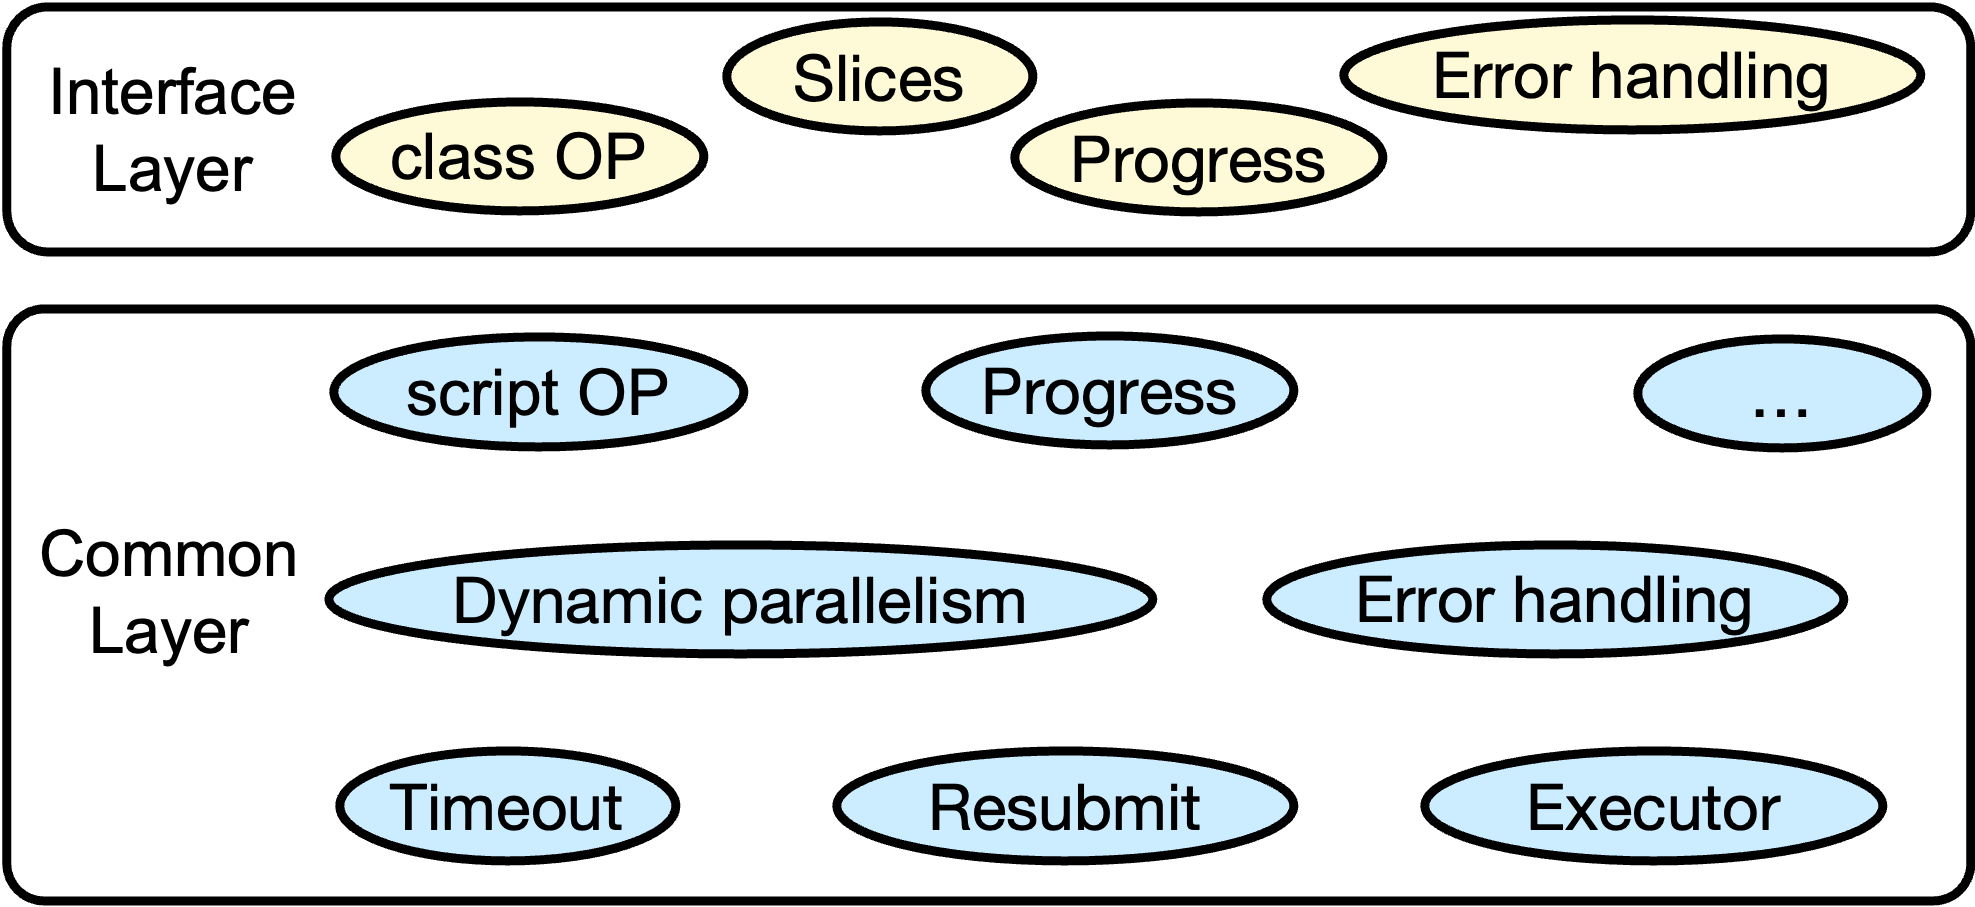
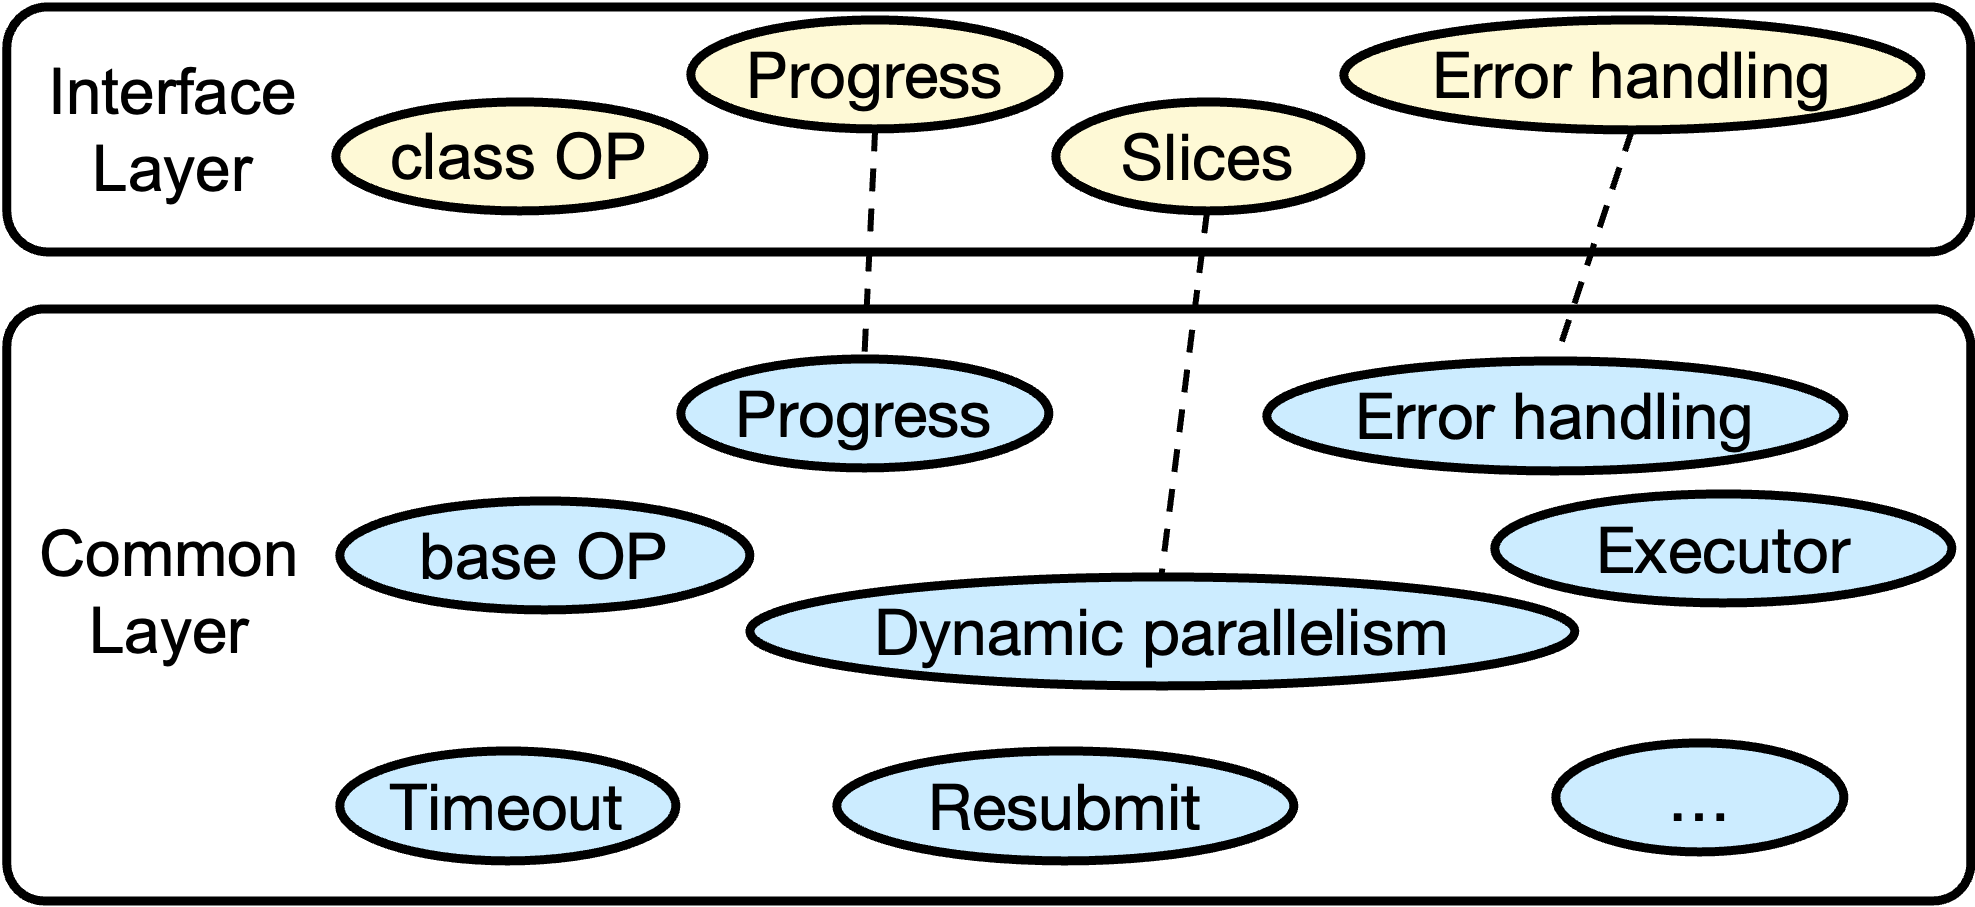
add doc for 1.2.2

Changed region(s): [[0.1544, 0.3396, 1.0, 0.7718], [0.3397, 0.0, 0.7104, 0.247], [0.7104, 0.8026, 0.9575, 0.957]]

diff --git a/README.md b/README.md
@@ -11,8 +11,9 @@ For dflow's developers, dflow wraps on argo SDK, keeps details of computing and 
 	* 1.1. [ Architecture](#Architecture)
 	* 1.2. [ Common layer](#Commonlayer)
 		* 1.2.1. [Parameters and artifacts](#Parametersandartifacts)
-		* 1.2.2. [ OP template](#OPtemplate)
-		* 1.2.3. [ Workflow](#Workflow)
+		* 1.2.2. [OP template](#OPtemplate)
+        * 1.2.3. [Step](#Step)
+		* 1.2.4. [Workflow](#Workflow)
 	* 1.3. [ Interface layer](#Interfacelayer)
 		* 1.3.1. [ Python OP](#PythonOP)
 * 2. [Quick Start](#QuickStart)
@@ -52,14 +53,21 @@ For dflow's developers, dflow wraps on argo SDK, keeps details of computing and 
 
 ###  1.1. <a name='Architecture'></a> Architecture
 The dflow consists of a **common layer** and an **interface layer**.  Interface layer takes various OP templates from users, usually in the form of python classes, and transforms them into base OP templates that common layer can handle. Common layer is an extension over argo client which provides functionalities such as file processing, workflow submission and management, etc.
-![dflow_architecture.png](./docs/imgs/dflow_architecture.png)
+<img src="./docs/imgs/dflow_architecture.png" alt="dflow_architecture" width="400"/>
+<style>
+img {
+  display: block;
+  margin-left: auto;
+  margin-right: auto;
+}
+</style>
 
 ###  1.2. <a name='Commonlayer'></a> Common layer
 ####  1.2.1. <a name='Parametersandartifacts'></a>Parameters and artifacts
 Parameters and artifacts are data stored by the workflow and passed within the workflow. Parameters are saved as strings which can be displayed in the UI, while artifacts are saved as files.
 
 ####  1.2.2. <a name='OPtemplate'></a> OP template
-OP template is the fundamental building block of a workflow. It defines an operation to be executed given the input and output. Both the input and output can be parameters and/or artifacts. The most common OP template is the container OP template. Necessary elements to be defined for the operation are the container image, scripts to be executed and commands to execute the scripts as entrypoint. Currently, two types of container OP templates are supported: `ShellOPTemplate`, `PythonOPTemplate`. Shell OP template (`ShellOPTemplate`) defines an operation by a shell script and Python script OP template (`PythonOPTemplate`) defines an operation by a Python script.
+OP template (shown as base OP in the figure above) is the fundamental building block of a workflow. It defines an operation to be executed given the input and output. Both the input and output can be parameters and/or artifacts. The most common OP template is the container OP template. Necessary arguements to be defined for the operation are the name of the OP Template, the container image and scripts to be executed. Currently, two types of container OP templates are supported: `ShellOPTemplate`, `PythonScriptOPTemplate`. Shell OP template (`ShellOPTemplate`) defines an operation by a shell script and Python script OP template (`PythonScriptOPTemplate`) defines an operation by a Python script.
 
 To use the `ShellOPTemplate`:
 
@@ -69,10 +77,12 @@ simple_example=ShellOPTemplate(name = "Hello",
                                 script = "cp /tmp/foo.txt /tmp/bar.txt && echo {{inputs.parameters.msg}} > /tmp/msg.txt")
 ```
 The above example defines a `ShellOPTemplate` with `name = "Hello"` and container image `alpine:latest`. The operation is to copy `/tmp/foo.txt` (input artifacts) to `/tmp/bar.txt` (output artifacts) and printout the properties of the parameters with name `msg` (input parameters) and pipe it to `/tmp/msg.txt` (value in the file is the properties of the output parameters). 
-
-Now we need to understand these four terms, namely the input parameters, the input artifacts, the output parameters, the output artifacts:
+<!-- 
+Parameters and artifacts can be defined as the following:
 - Input/output parameters: a dictionary that maps the parameter name to its properties.
-- Input/output artifacts: a dictionary that maps the artifact name to its properties.
+- Input/output artifacts: a dictionary that maps the artifact name to its properties. -->
+
+To define the parameters and artifacts of this OPTemplate: 
 
 ```python
 #define input 
@@ -88,10 +98,14 @@ In the above example, there are three things to clarify.
 2. For the output parameter, the source where its value comes from should be specified. For the container OP template, the value may come from a certain file generated in the container (`value_from_path`). 
 3. The paths to the input and output artifact in the container are required to be specified.
 
-If we want to achieve the same operation using `PythonOPTemplate`, we first need to define a class for the 
-```python
-class 
-```
+On the same level, one can also define a `PythonScriptOPTemplate` to achieve the same operation. 
+<!-- ```python
+simple_example=PythonScriptOPTemplate(name = "Hello",
+                                image = "alpine:latest",
+                                script = "import shutil,sys\nshutil.copy('/tmp/foo.txt','/tmp/bar.txt')\nf=open('/tmp/msg.txt','w')\nf.write({{inputs.parameters.msg}})\nf.close()")
+``` -->
+
+#### 1.2.3 <a name='Step'></a> Step
 
 ####  1.2.3. <a name='Workflow'></a> Workflow
 `Step` and `Steps` are central blocks for building a workflow. A `Step` is the result of instantiating a OP template. When a `Step` is initialized, values of all input parameters and sources of all input artifacts declared in the OP template must be specified. `Steps` is a sequential array of array of concurrent `Step`'s. A simple example goes like `[[s00, s01],  [s10, s11, s12]]`, where inner array represent concurrent tasks while outer array is sequential. A `Workflow` contains a `Steps` as entrypoint for default. Adding a `Step` to a `Workflow` is equivalent to adding the `Step` to the `Steps` of the `Workflow`. For example,
